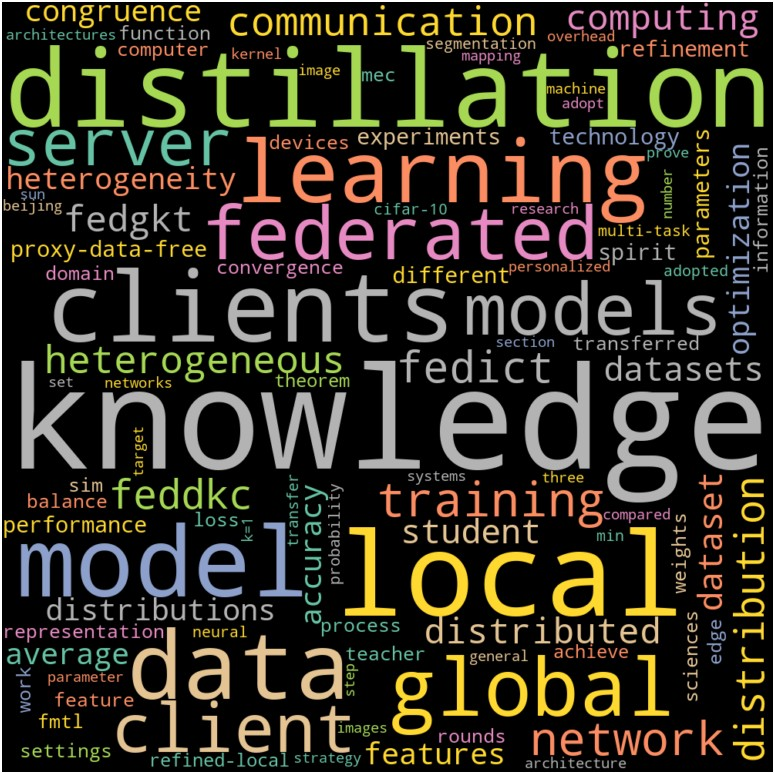
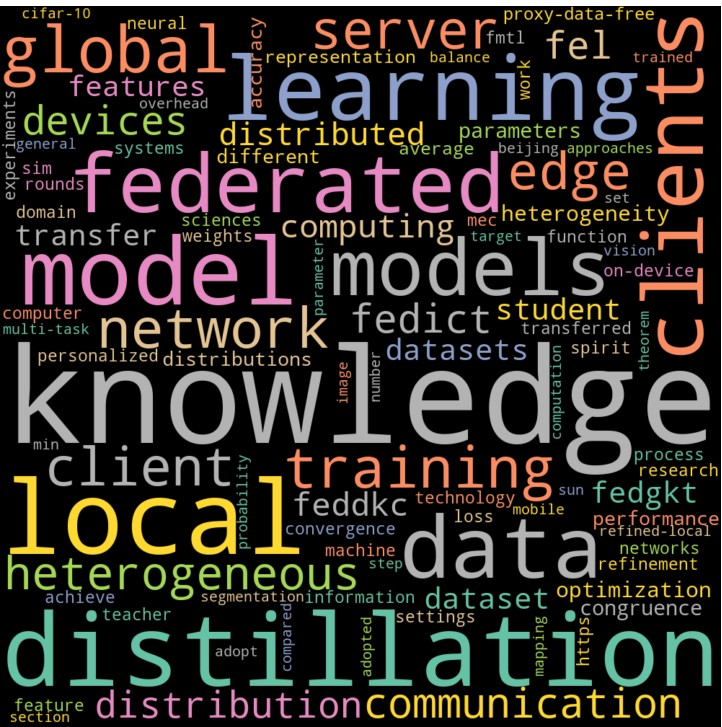
add pub

diff --git a/index.html b/index.html
@@ -242,7 +242,21 @@
         <br />
         </p>
         </li>
-
+		
+		
+		<li>
+        <p align="justify">
+        <a href="https://arxiv.org/abs/2301.05849">
+        Survey of <b>Knowledge Distillation</b> in <b>Federated Edge Learning</b>.
+        </a>
+        <br />
+        <b>Zhiyuan Wu</b>, Sheng Sun, Yuwei Wang*, Min Liu, Xuefeng Jiang, and Runhan Li.<br />
+        <i>arXiv preprint arXiv:2301.05849.</i> 2023.
+        <br />
+        </p>
+        </li>
+		
+		
         <li>
         <p align="justify">
         <a href="https://link.springer.com/chapter/10.1007/978-3-030-82136-4_45">
@@ -659,7 +673,7 @@
         <div id="footer">
         <a href="https://info.flagcounter.com/n51J"><img src="https://s05.flagcounter.com/count2/n51J/bg_FFFFFF/txt_000000/border_CCCCCC/columns_5/maxflags_12/viewers_0/labels_0/pageviews_0/flags_0/percent_0/" alt="Flag Counter" border="0" /> <br />Unique Visitors Since June 2022</a>
         <div id="footer-text">
-        <br />Page generated in 2023-01-03, by <a href="https://wuzhiyuan2000.github.io/">Zhiyuan Wu</a>.
+        <br />Page generated in 2023-01-18, by <a href="https://wuzhiyuan2000.github.io/">Zhiyuan Wu</a>.
         </div>
         </div>
     </div>
